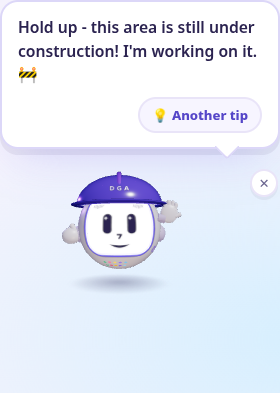
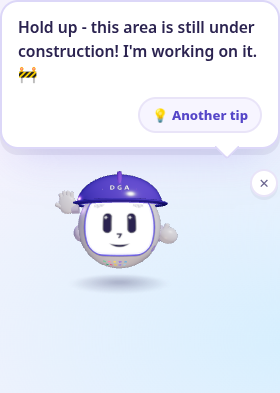
fix: hold-up palm moves to the left hand with a proper animation
The right hand doubles as the wave hand, so the palm kept getting
interrupted mid-pose and looked glitchy. Now:
- the LEFT hand (otherwise idle) carries the open palm, so it rises
  once and stays up steadily
- springy raise with a small overshoot, calm hover, and a double
  'air pat' every few seconds so the pose reads alive, not frozen
- the right hand goes back to a fist and keeps its waves

Claude-Session: https://claude.ai/code/session_01WcKFy6Xpys6eR3h3NjbVj1

Changed region(s): [[0.2, 0.4275, 0.6571, 0.7023], [0.3429, 0.4275, 0.3714, 0.458]]

diff --git a/src/mascot/RobotModel.jsx b/src/mascot/RobotModel.jsx
@@ -239,27 +239,37 @@ export default function RobotModel({
       }
     }
 
-    /* ---- "hold up" palm: raise smoothly, yield to gestures ---- */
-    a.holdBlend += ((holdup && !a.gesture ? 1 : 0) - a.holdBlend) * Math.min(1, dt * 3.5)
+    /* ---- "hold up": the LEFT palm rises with a springy overshoot,
+       then hovers calmly with occasional little air-pats. The right
+       hand stays free for waves, so the two never fight. ---- */
+    a.holdBlend += ((holdup ? 1 : 0) - a.holdBlend) * Math.min(1, dt * 3)
     const hb = a.holdBlend
-    let mittRZ = 0.18
-    if (hb > 0.001) {
-      mittRX = mittRX * (1 - hb) + 1.14 * hb
-      mittRY = mittRY * (1 - hb) + (0.44 + Math.sin(t * 1.5) * 0.02) * hb
-      mittRZ = 0.18 * (1 - hb) + 0.52 * hb
-      mittRRotZ = mittRRotZ * (1 - hb) + -0.12 * hb
-    }
 
     if (root.current) {
       root.current.position.y = y
       root.current.scale.set(1 + (1 - sp.s) * 0.45, sp.s, 1 + (1 - sp.s) * 0.45)
     }
     if (mittR.current) {
-      mittR.current.position.set(mittRX, mittRY, mittRZ)
+      mittR.current.position.set(mittRX, mittRY, 0.18)
       mittR.current.rotation.z = mittRRotZ
     }
     if (mittL.current) {
-      mittL.current.position.y = -0.18 + (idle ? Math.sin(t * 1.35 + 1.4) * 0.02 : 0)
+      const restY = -0.18 + (idle ? Math.sin(t * 1.35 + 1.4) * 0.02 : 0)
+      if (hb > 0.001) {
+        // two quick forward pats every few seconds, tilting with the push
+        const cycle = (t + 1.2) % 4.6
+        const pat = cycle < 0.7 ? Math.sin((cycle / 0.7) * Math.PI * 2) * 0.05 : 0
+        const overshoot = Math.sin(hb * Math.PI) * 0.1
+        mittL.current.position.x = -1.08 * (1 - hb) + -1.16 * hb
+        mittL.current.position.y = restY * (1 - hb) + (0.46 + overshoot + Math.sin(t * 1.6) * 0.025) * hb
+        mittL.current.position.z = 0.14 * (1 - hb) + (0.5 + pat) * hb
+        mittL.current.rotation.z = 0.22 * (1 - hb) + 0.1 * hb
+        mittL.current.rotation.x = -pat * 3 * hb
+      } else {
+        mittL.current.position.set(-1.08, restY, 0.14)
+        mittL.current.rotation.z = 0.22
+        mittL.current.rotation.x = 0
+      }
     }
 
     /* ---- chest LEDs pulse ---- */
@@ -426,10 +436,10 @@ export default function RobotModel({
 
           {/* bare summer hands, wrists plugged into the shoulder pods */}
           <group ref={mittR} position={[1.08, -0.18, 0.14]} rotation={[0, 0, -0.22]}>
-            {holdup ? <Palm /> : <Hand />}
+            <Hand />
           </group>
           <group ref={mittL} position={[-1.08, -0.18, 0.14]} rotation={[0, 0, 0.22]}>
-            <Hand mirrored />
+            {holdup ? <Palm mirrored /> : <Hand mirrored />}
           </group>
 
           {/* chest LEDs */}